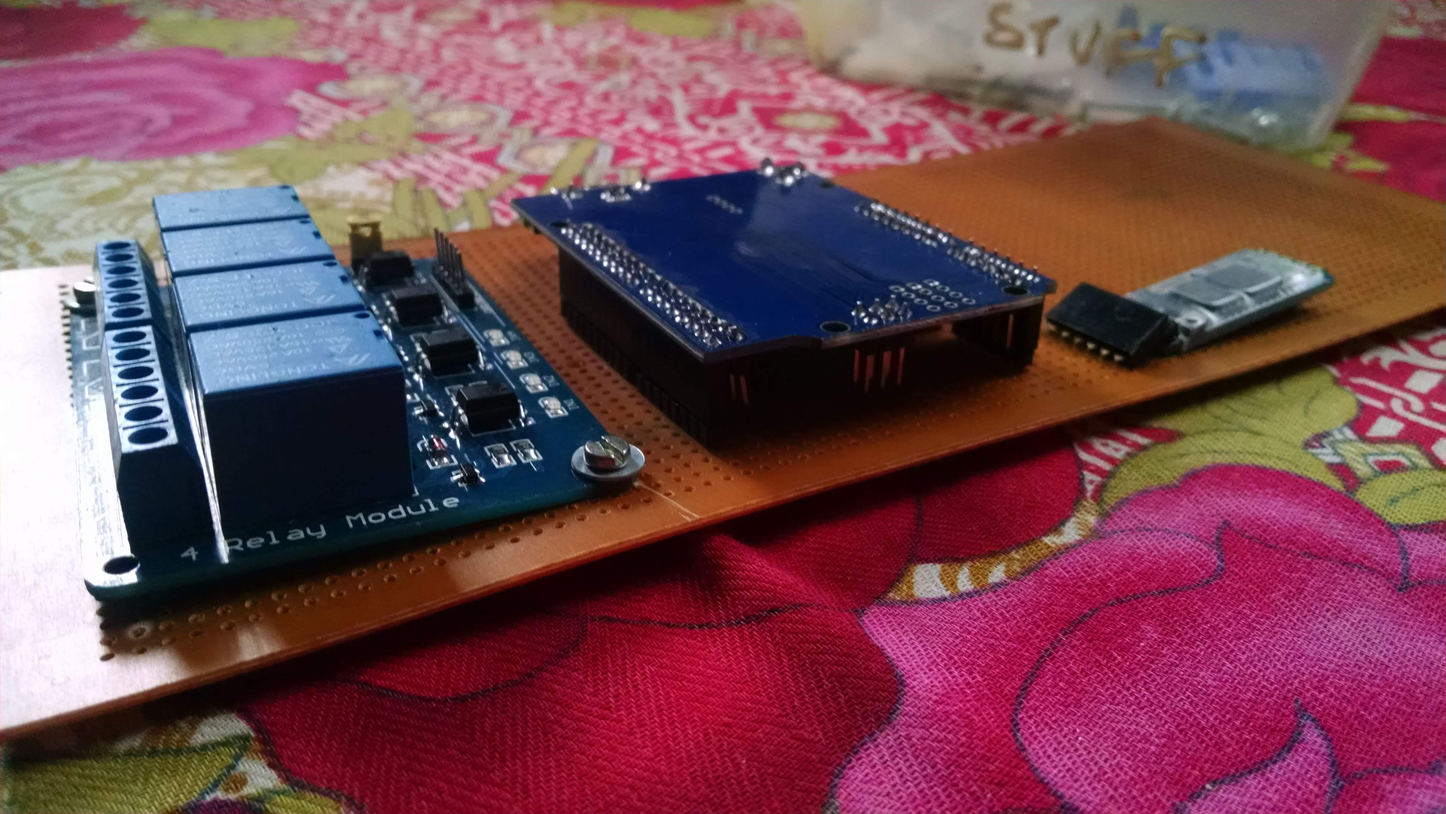
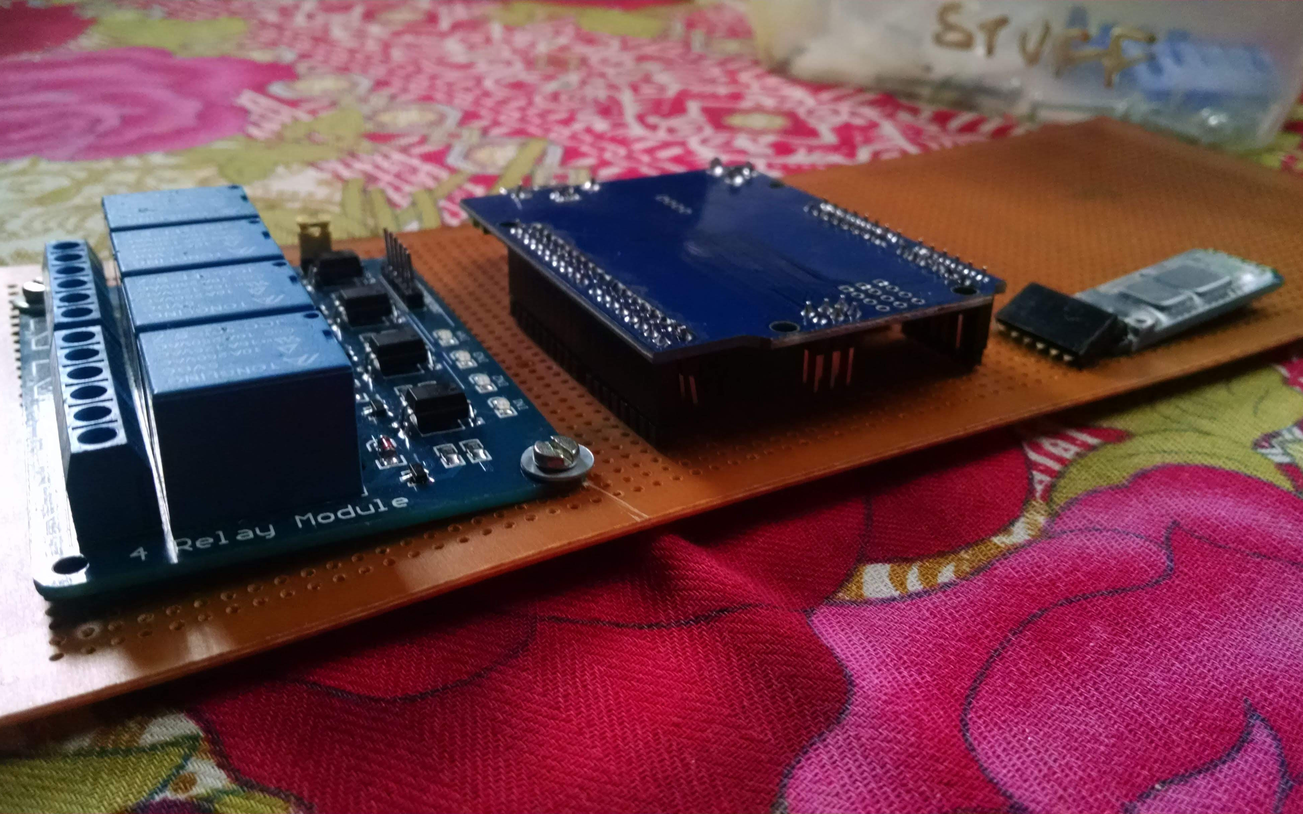
some stupid sizing stuff

diff --git a/_projects/fun/2018_smart_home.md b/_projects/fun/2018_smart_home.md
@@ -27,10 +27,10 @@ I wrote an Android app in Java, programmed and installed an [ESP8266 nodemcu](ht
 Later that year, I added a makeshift PCB into the wiring of my house with relays to control fans and lights in my room.
 
 <div class="row justify-content-center">
-    <div class="col-sm-6 mt-3 mt-md-0">
+    <div class="col-sm-8 mt-3 mt-md-0">
         {% include figure.liquid path="assets/img/projects/fun/2018_smart_home/fan_bt_pcb_1.jpeg" title="Relays PCB" class="img-fluid rounded z-depth-1" caption="The circuit board."%}
     </div>
-    <div class="col-sm-4 mt-3 mt-md-0">
+    <div class="col-sm-3 mt-3 mt-md-0">
         {% include figure.liquid path="assets/img/projects/fun/2018_smart_home/fan_bt_pcb_2.png" title="Relays PCB Wall" class="img-fluid rounded z-depth-1" caption="The circuit board attached to the wiring in my house (all stunts done by professionals)."%}
     </div>
 </div>
